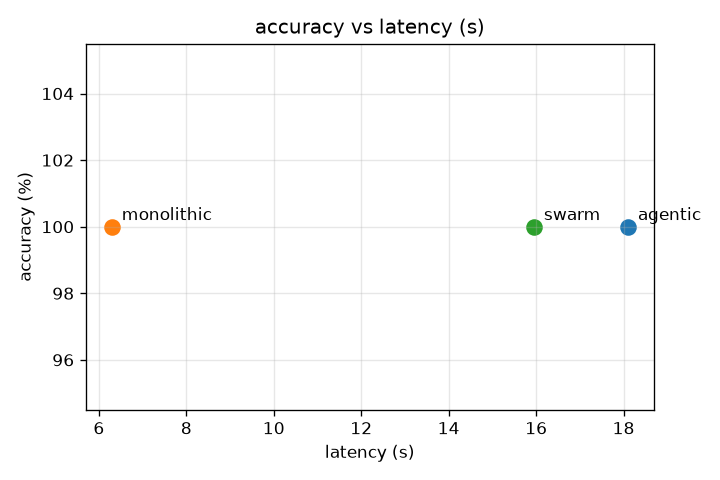
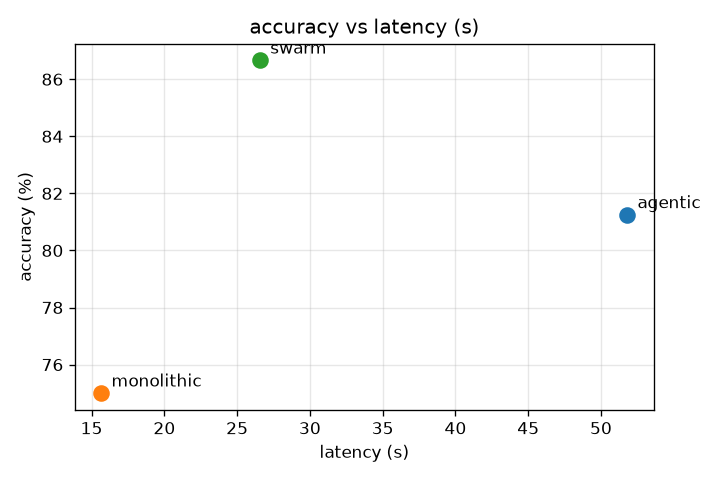
data: judged pilot on easy+hard tasks — architecture now differentiates
47 runs (gsm8k-001/004, hotpotqa-001, humaneval-004) x 3 backends, judged by
llama-3.2-3b (different family from Qwen backend; gemma-4-31b was too slow to
load on the M5 Max, noted in config).

Findings: on the hard math item monolithic drops to 67% while agentic/swarm
hold 100% — architecture starts to matter once tasks are hard. Overall
swarm 87% > agentic 81% > monolithic 75%; swarm and monolithic sit on the
accuracy/latency+tokens Pareto frontier, agentic is dominated. Judge verdicts
agree 100% with the auto-grader where parseable. humaneval-004 is 0% across
all backends — the reasoning model + 2048 max_tokens truncates code (a real
finding: raise the cap or use a non-reasoning model for code).

diff --git a/results/analysis.md b/results/analysis.md
@@ -1,15 +1,15 @@
 # Benchmark Analysis
 
-- Runs: **30**  ·  Environments: **local**  ·  Model: **deepseek-r1-14b-distill-q4_k_m**
+- Runs: **47**  ·  Environments: **local**  ·  Model: **deepseek-r1-14b-distill-q4_k_m**
 - Every metric is mean±std across trials (pre-reg S9). Pareto: minimize latency/tokens, maximize accuracy.
 
 ## By architecture
 
 | group | n | acc | latency | tokens(tot) | actions | tok/s |
 | --- | --- | --- | --- | --- | --- | --- |
-| agentic | 10 | 100% | 18.1±4.9s | 1062±40 | 2.0±0.0 | 42.9±6.4 |
-| monolithic | 10 | 100% | 6.3±2.7s | 381±77 | 1.0±0.0 | 43.9±5.2 |
-| swarm | 10 | 100% | 15.9±8.2s | 1364±337 | 3.0±0.0 | 60.0±7.4 |
+| agentic | 16 | 81% | 51.8±72.4s | 2568±3181 | 2.4±0.8 | 42.4±5.5 |
+| monolithic | 16 | 75% | 15.7±19.5s | 709±762 | 0.9±0.2 | 40.1±8.1 |
+| swarm | 15 | 87% | 26.6±29.1s | 2102±1924 | 3.0±0.0 | 60.5±6.1 |
 
 ## By architecture × task
 
@@ -18,9 +18,15 @@
 | gsm8k-001 / agentic | 5 | 100% | 13.4±0.5s | 1024±0 | 2.0±0.0 | 48.9±1.8 |
 | gsm8k-001 / monolithic | 5 | 100% | 3.8±0.3s | 308±1 | 1.0±0.0 | 48.0±3.4 |
 | gsm8k-001 / swarm | 5 | 100% | 8.2±0.1s | 1044±0 | 3.0±0.0 | 66.7±1.0 |
+| gsm8k-004 / agentic | 3 | 100% | 19.3±1.8s | 1182±0 | 2.0±0.0 | 41.3±3.8 |
+| gsm8k-004 / monolithic | 3 | 67% | 8.3±7.4s | 286±248 | 0.7±0.6 | 24.6±4.9 |
+| gsm8k-004 / swarm | 3 | 100% | 15.6±0.4s | 1437±0 | 3.0±0.0 | 60.2±1.6 |
 | hotpotqa-001 / agentic | 5 | 100% | 22.8±0.2s | 1099±0 | 2.0±0.0 | 36.9±0.3 |
 | hotpotqa-001 / monolithic | 5 | 100% | 8.8±0.6s | 454±0 | 1.0±0.0 | 39.9±2.8 |
 | hotpotqa-001 / swarm | 5 | 100% | 23.7±1.2s | 1683±0 | 3.0±0.0 | 53.3±2.9 |
+| humaneval-004 / agentic | 3 | 0% | 196.8±19.1s | 8978±0 | 4.0±0.0 | 41.9±4.3 |
+| humaneval-004 / monolithic | 3 | 0% | 54.3±1.5s | 2227±0 | 1.0±0.0 | 37.7±1.0 |
+| humaneval-004 / swarm | 2 | 0% | 96.3±1.4s | 6795±0 | 3.0±0.0 | 63.8±0.9 |
 
 ## Pareto frontiers (architecture level)
 
@@ -28,11 +34,24 @@
 
 | backend | acc | latency | tokens | acc·vs·latency | acc·vs·tokens |
 | --- | --- | --- | --- | --- | --- |
-| agentic | 100% | 18.1s | 1062 |  |  |
-| monolithic | 100% | 6.3s | 381 | ✓ | ✓ |
-| swarm | 100% | 15.9s | 1364 |  |  |
+| agentic | 81% | 51.8s | 2568 |  |  |
+| monolithic | 75% | 15.7s | 709 | ✓ | ✓ |
+| swarm | 87% | 26.6s | 2102 | ✓ | ✓ |
+
+## LLM-as-judge (secondary metric)
+
+_Different-family judge model; quality 0–max, and agreement with the primary auto-grader._
+
+| backend | n | quality | judge·correct | agree·w/·auto |
+| --- | --- | --- | --- | --- |
+| agentic | 13 | 4.00±0.00 | 100% | 100% |
+| monolithic | 13 | 3.92±0.28 | 92% | 100% |
+| swarm | 13 | 4.00±0.00 | 100% | 100% |
 
 ## Error distribution by architecture
 
-_No failures recorded._
-
+| backend | backend_exception | format_error |
+| --- | --- | --- |
+| agentic | 0 | 3 |
+| monolithic | 1 | 3 |
+| swarm | 0 | 2 |